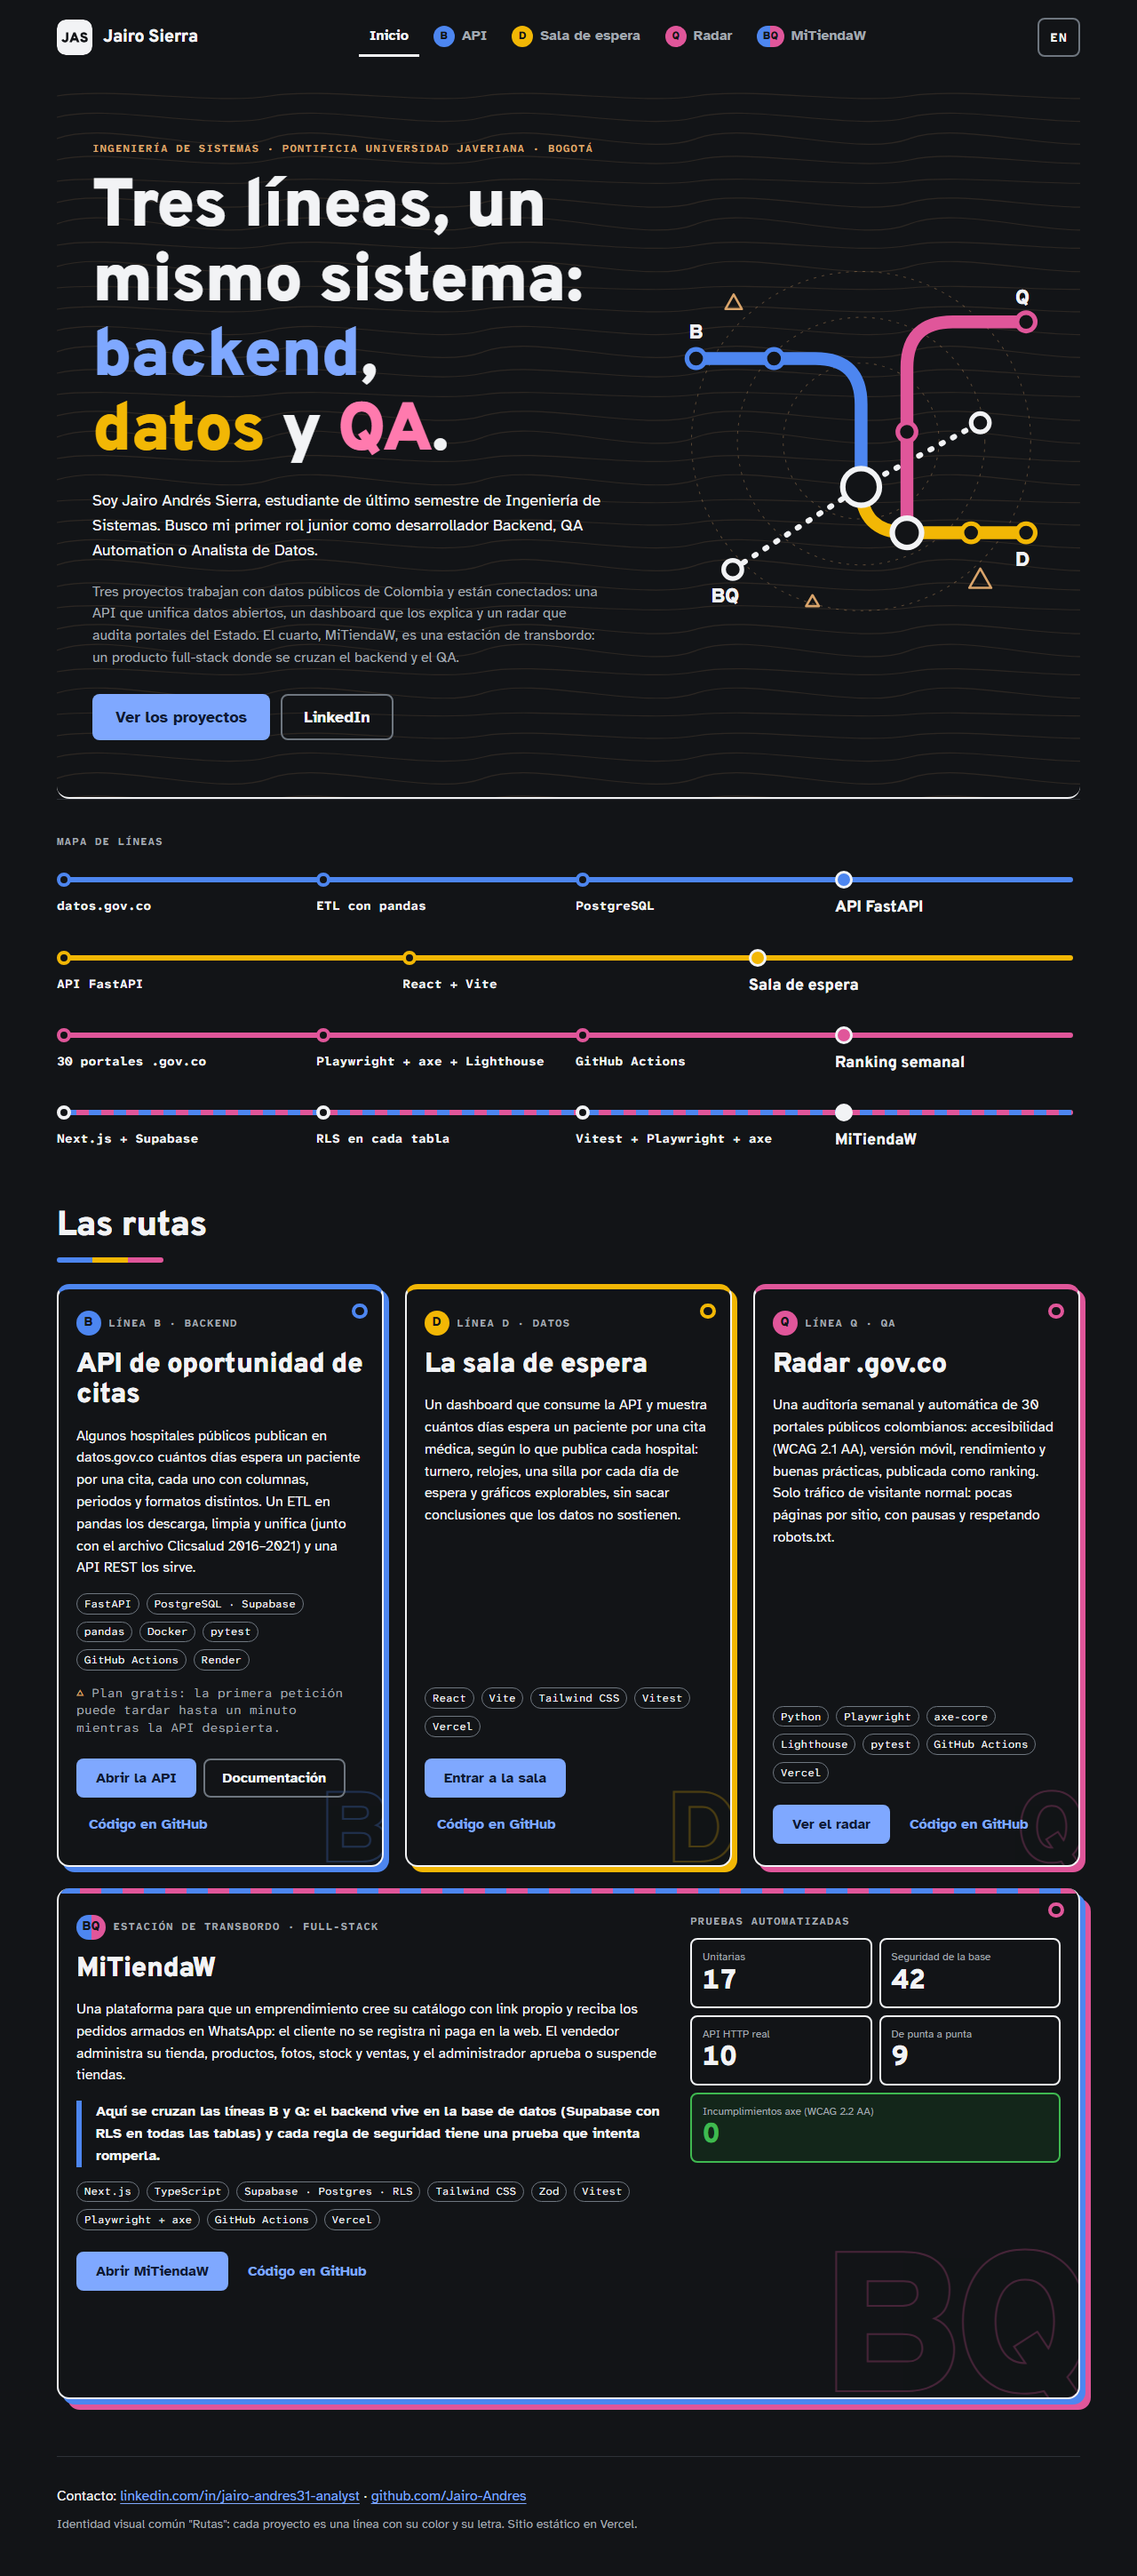
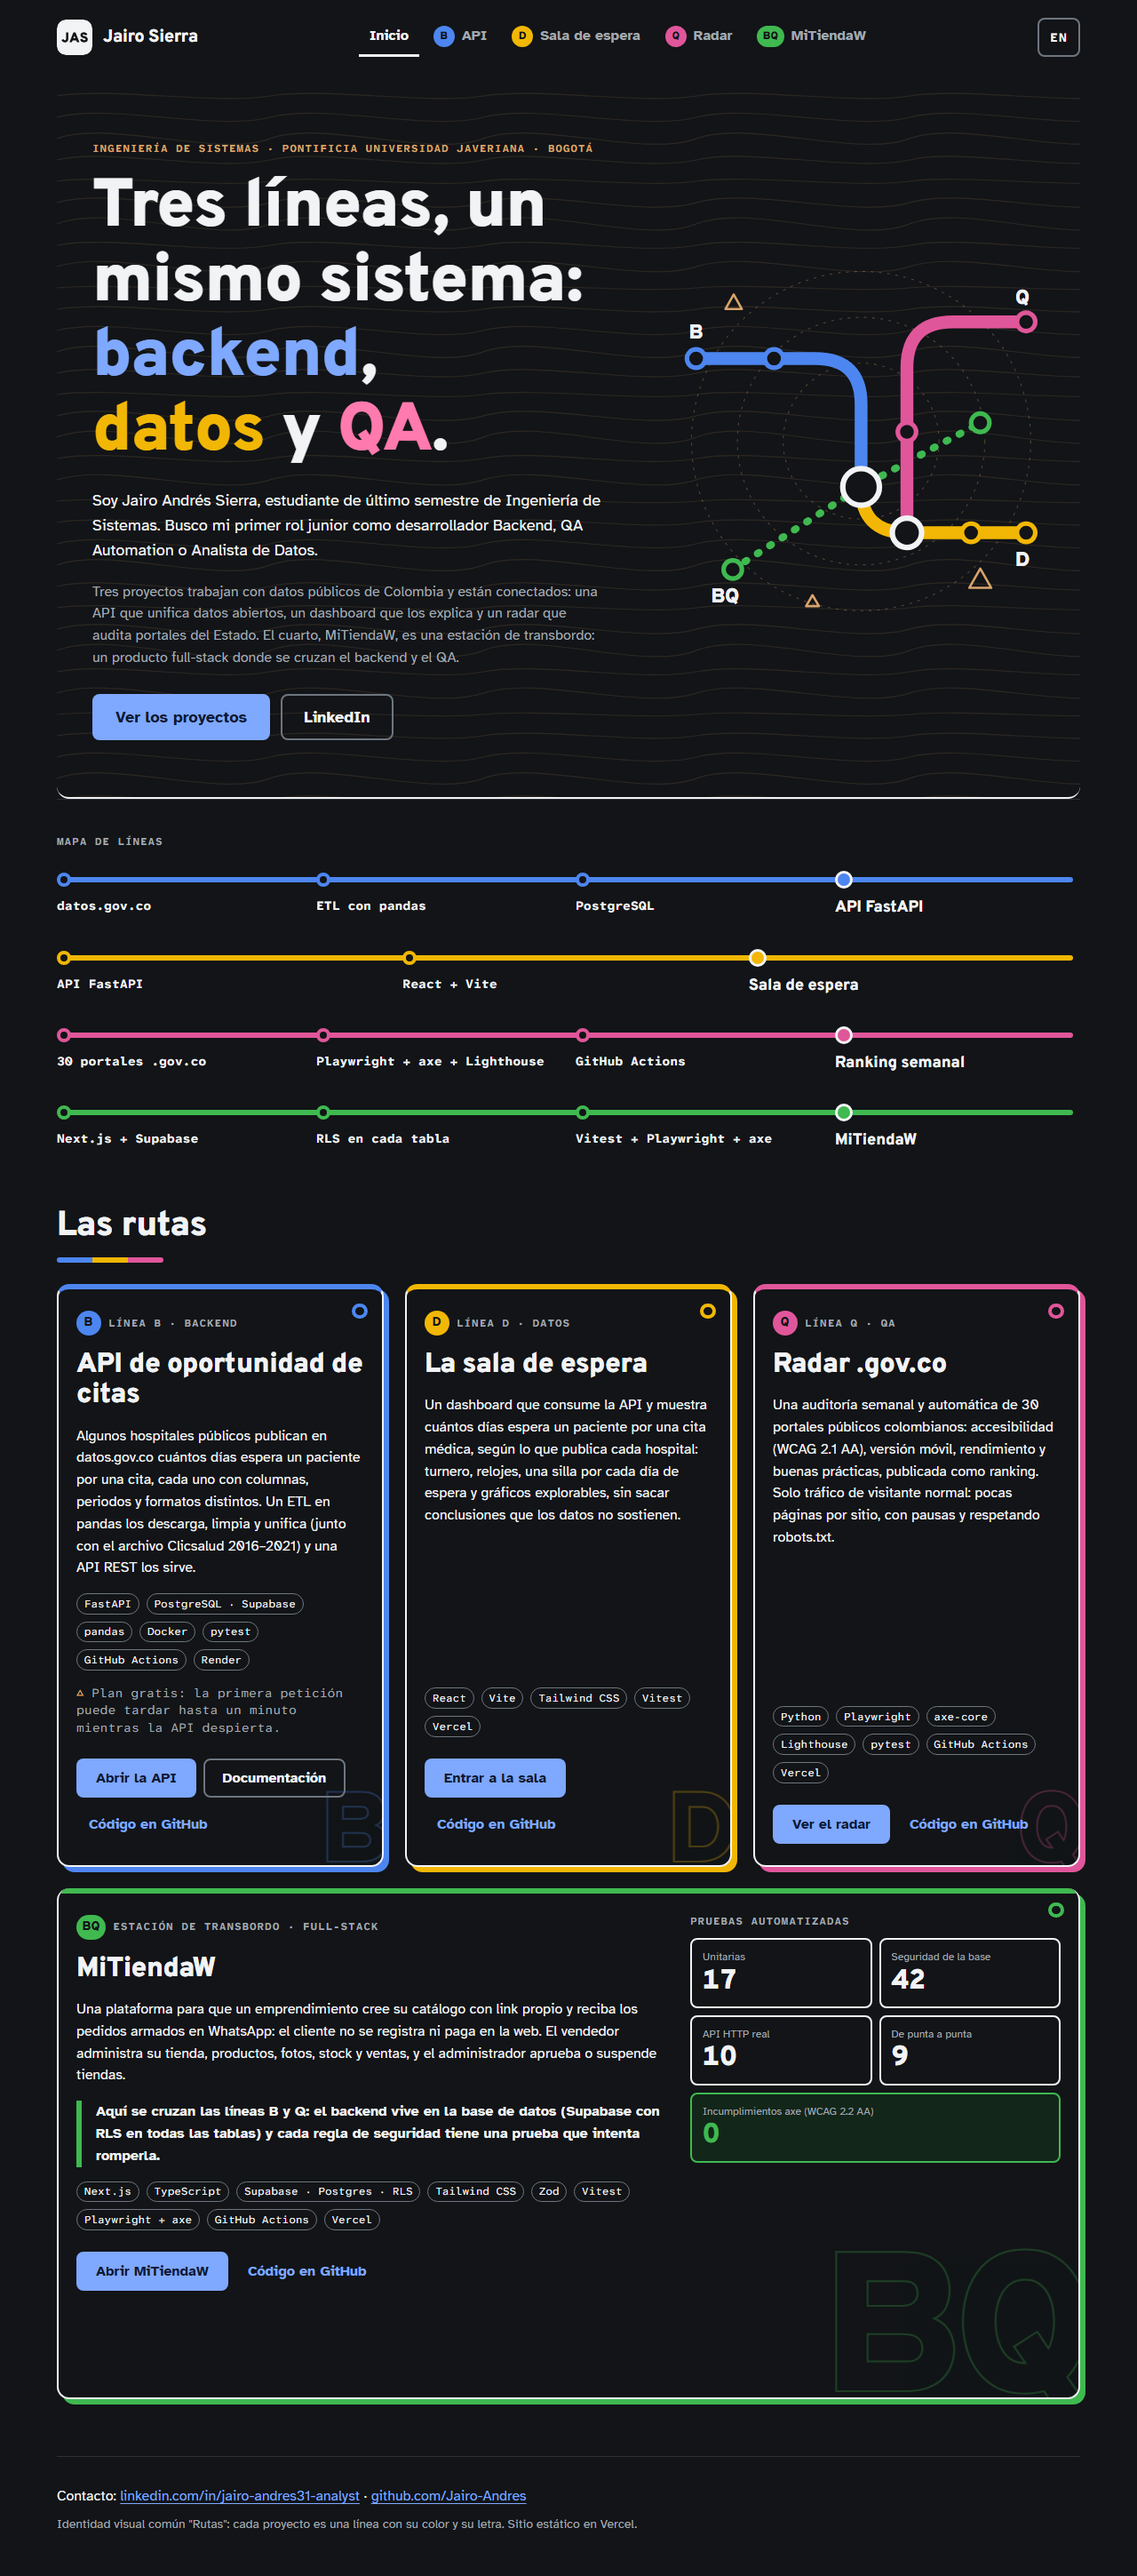
Tren con paradas que marca cada estación y línea BQ en verde

diff --git a/web/styles.css b/web/styles.css
@@ -96,19 +96,6 @@ main, .topbar, .footer { width: min(var(--content-max), 100% - 2 * var(--gutter)
 .line li.is-terminal { font-family: var(--font-display); font-weight: var(--weight-display); font-size: var(--text-md); }
 .line li.is-terminal::before { width: 1.25rem; height: 1.25rem; left: calc(-1 * var(--space-8) + 0.75rem - 0.625rem); top: 0.05rem; background: var(--c); border-color: var(--color-fg); border-width: 3px; }
 
-/* El tren: un punto que recorre cada línea (solo si el usuario acepta movimiento) */
-@media (prefers-reduced-motion: no-preference) {
-  .line::after {
-    content: ""; position: absolute; left: calc(0.75rem - 0.3rem); top: 0.6rem;
-    width: 0.6rem; height: 0.6rem; border-radius: 50%; background: var(--color-bg);
-    box-shadow: 0 0 0 2px var(--c);
-    animation: tren-v 7s var(--ease-in-out) infinite alternate;
-  }
-  .line--d::after { animation-delay: -2.3s; }
-  .line--q::after { animation-delay: -4.6s; }
-}
-@keyframes tren-v { to { top: calc(100% - 1.2rem); } }
-@keyframes tren-h { to { left: calc(100% - 0.6rem); } }
 
 /* ---- Rutas (tarjetas de proyecto) ---- */
 .routes { display: grid; gap: var(--space-6); padding: var(--space-6) 0 var(--space-16); }
@@ -146,9 +133,6 @@ main, .topbar, .footer { width: min(var(--content-max), 100% - 2 * var(--gutter)
   .routes h2 { grid-column: 1 / -1; }
   .route { grid-template-rows: auto auto 1fr auto auto; }
 }
-@media (min-width: 48rem) and (prefers-reduced-motion: no-preference) {
-  .line::after { top: calc(0.75rem - 0.3rem); left: 0.5rem; animation-name: tren-h; }
-}
 
 /* ==========================================================================
    v2: más carácter. Figura de mapa en la portada, tarjetas con borde de señal
@@ -158,8 +142,8 @@ main, .topbar, .footer { width: min(var(--content-max), 100% - 2 * var(--gutter)
 
 /* Bullet de transbordo: mitad B, mitad Q */
 .bullet-x {
-  background: linear-gradient(90deg, var(--route-b) 0 50%, var(--route-q) 50% 100%);
-  color: var(--on-route-b);
+  background: var(--route-x);
+  color: var(--on-route-x);
   letter-spacing: 0.02em;
 }
 
@@ -172,9 +156,9 @@ main, .topbar, .footer { width: min(var(--content-max), 100% - 2 * var(--gutter)
 .art-b { stroke: var(--route-b); }
 .art-d { stroke: var(--route-d); }
 .art-q { stroke: var(--route-q); }
-.art-x { stroke: var(--color-fg); stroke-width: 6; stroke-dasharray: 2 12; }
+.art-x { stroke: var(--route-x); stroke-width: 8; stroke-dasharray: 2 14; }
 .st { fill: var(--color-bg); stroke-width: 5; }
-.st-b { stroke: var(--route-b); } .st-d { stroke: var(--route-d); } .st-q { stroke: var(--route-q); } .st-x { stroke: var(--color-fg); }
+.st-b { stroke: var(--route-b); } .st-d { stroke: var(--route-d); } .st-q { stroke: var(--route-q); } .st-x { stroke: var(--route-x); }
 .hub { fill: var(--color-bg); stroke: var(--color-fg); stroke-width: 6; }
 .art-cota path { fill: none; stroke: var(--color-cota); stroke-width: 2.5; stroke-linejoin: round; }
 .art-labels text { font: 900 22px var(--font-display); fill: var(--color-fg); }
@@ -192,8 +176,7 @@ main, .topbar, .footer { width: min(var(--content-max), 100% - 2 * var(--gutter)
 }
 
 /* Línea de transbordo en el mapa: tramos B y Q alternados */
-.line--x { --c: var(--color-fg); }
-.line--x::before { background: repeating-linear-gradient(180deg, var(--route-b) 0 14px, var(--route-q) 14px 28px); }
+.line--x { --c: var(--route-x); --ink: var(--ink-x); }
 
 /* Tarjetas: borde de señal + sombra sólida del color de la línea */
 .route {
@@ -214,15 +197,13 @@ main, .topbar, .footer { width: min(var(--content-max), 100% - 2 * var(--gutter)
 }
 
 /* Estación de transbordo (MiTiendaW) */
-.route--x { --c: var(--route-q); border-top: 0; display: grid; gap: var(--space-6); padding-top: calc(var(--space-6) + var(--route-stroke)); }
+.route--x { --c: var(--route-x); border-top: 0; display: grid; gap: var(--space-6); padding-top: calc(var(--space-6) + var(--route-stroke)); }
 .route--x::after {
   content: ""; position: absolute; inset: 0 0 auto; height: var(--route-stroke);
-  background: repeating-linear-gradient(90deg, var(--route-b) 0 24px, var(--route-q) 24px 48px);
+  background: var(--route-x);
 }
-.route--x { box-shadow: 6px 6px 0 var(--route-b), 12px 12px 0 var(--route-q); }
-.route--x:hover { box-shadow: 8px 8px 0 var(--route-b), 14px 14px 0 var(--route-q); }
 .route-x-main { display: grid; gap: var(--space-4); align-content: start; }
-.route-x-rel { padding-left: var(--space-4); border-left: var(--route-stroke) solid var(--route-b); color: var(--color-fg); font-weight: var(--weight-bold); }
+.route-x-rel { padding-left: var(--space-4); border-left: var(--route-stroke) solid var(--route-x); color: var(--color-fg); font-weight: var(--weight-bold); }
 .tests-wrap { display: grid; gap: var(--space-3); align-content: start; }
 .tests-wrap h4 { margin: 0; }
 .tests { display: grid; grid-template-columns: repeat(2, minmax(0, 1fr)); gap: var(--space-2); margin: 0; }
@@ -237,11 +218,31 @@ main, .topbar, .footer { width: min(var(--content-max), 100% - 2 * var(--gutter)
 }
 
 @media (min-width: 48rem) {
-  .line--x::before { background: repeating-linear-gradient(90deg, var(--route-b) 0 14px, var(--route-q) 14px 28px); }
   .route--x { grid-column: 1 / -1; grid-template-columns: 1.6fr 1fr; }
   .route--x .route-letter { font-size: 14rem; }
 }
 @media (min-width: 64rem) {
   .hero { grid-template-columns: minmax(0, 1.5fr) minmax(0, 1fr); align-items: center; column-gap: var(--space-10); }
   .hero-art { width: 100%; margin: 0; }
+}
+
+/* ==========================================================================
+   v3: BQ en verde y tren con paradas.
+   El verde sale de los tokens (--status-good): pasa AA con su texto en claro y oscuro.
+   El tren lo mueve app.js de estación en estación; mientras está parado,
+   la estación se marca (círculo relleno y texto del color de la línea).
+   ========================================================================== */
+:root { --route-x: var(--status-good); --on-route-x: var(--on-route-b); --ink-x: var(--status-good); }
+.line--b { --ink: var(--ink-b); } .line--d { --ink: var(--ink-d); } .line--q { --ink: var(--ink-q); }
+
+.line li::before { transition: transform var(--duration-slow) var(--ease-out), background-color var(--duration-slow) var(--ease-out); }
+.line li { transition: color var(--duration-slow) var(--ease-out); }
+.line li.is-stop { color: var(--ink); }
+.line li.is-stop::before { background: var(--c); transform: scale(1.45); }
+
+.train {
+  position: absolute; left: 0; top: 0; z-index: 1;
+  width: 0.75rem; height: 0.75rem; margin: -0.375rem 0 0 -0.375rem; border-radius: 50%;
+  background: var(--color-fg); box-shadow: 0 0 0 3px var(--color-bg), 0 0 0 5px var(--c);
+  transition: transform 1.8s var(--ease-in-out); pointer-events: none;
 }

diff --git a/web/app.js b/web/app.js
@@ -108,3 +108,51 @@ document.getElementById("lang-toggle").addEventListener("click", () => {
   history.replaceState(null, "", url);
   apply(lang);
 });
+
+// Tren del mapa de líneas: va de estación en estación, se detiene en cada una y la marca
+// mientras está parado. Con "reducir movimiento" no se crea.
+const reduceMotion = matchMedia("(prefers-reduced-motion: reduce)");
+const horizontal = matchMedia("(min-width: 48rem)");
+const TRAVEL = 1800; // ms entre estaciones (igual que la transición de .train)
+const STOP = 1600;   // ms parado en cada estación
+
+function stationPoint(li) {
+  // Centro del círculo de la estación, relativo a la lista (ver .line li::before en styles.css)
+  return horizontal.matches ? [li.offsetLeft + 8, 12] : [12, li.offsetTop + 10];
+}
+
+function runLine(line, delay) {
+  const stops = [...line.querySelectorAll("li")];
+  const train = document.createElement("span");
+  train.className = "train";
+  train.setAttribute("aria-hidden", "true");
+  line.append(train);
+
+  let i = 0;
+  let dir = 1;
+  const place = (instant) => {
+    const [x, y] = stationPoint(stops[i]);
+    if (instant) train.style.transition = "none";
+    train.style.transform = `translate(${x}px, ${y}px)`;
+    if (instant) { train.offsetWidth; train.style.transition = ""; }
+  };
+  place(true);
+
+  const step = () => {
+    stops[i].classList.add("is-stop");
+    setTimeout(() => {
+      stops[i].classList.remove("is-stop");
+      if (i + dir < 0 || i + dir >= stops.length) dir = -dir;
+      i += dir;
+      place(false);
+      setTimeout(step, TRAVEL);
+    }, STOP);
+  };
+  setTimeout(step, delay);
+  horizontal.addEventListener("change", () => place(true));
+  addEventListener("resize", () => place(true));
+}
+
+if (!reduceMotion.matches) {
+  document.querySelectorAll(".map .line").forEach((line, n) => runLine(line, n * 900));
+}
